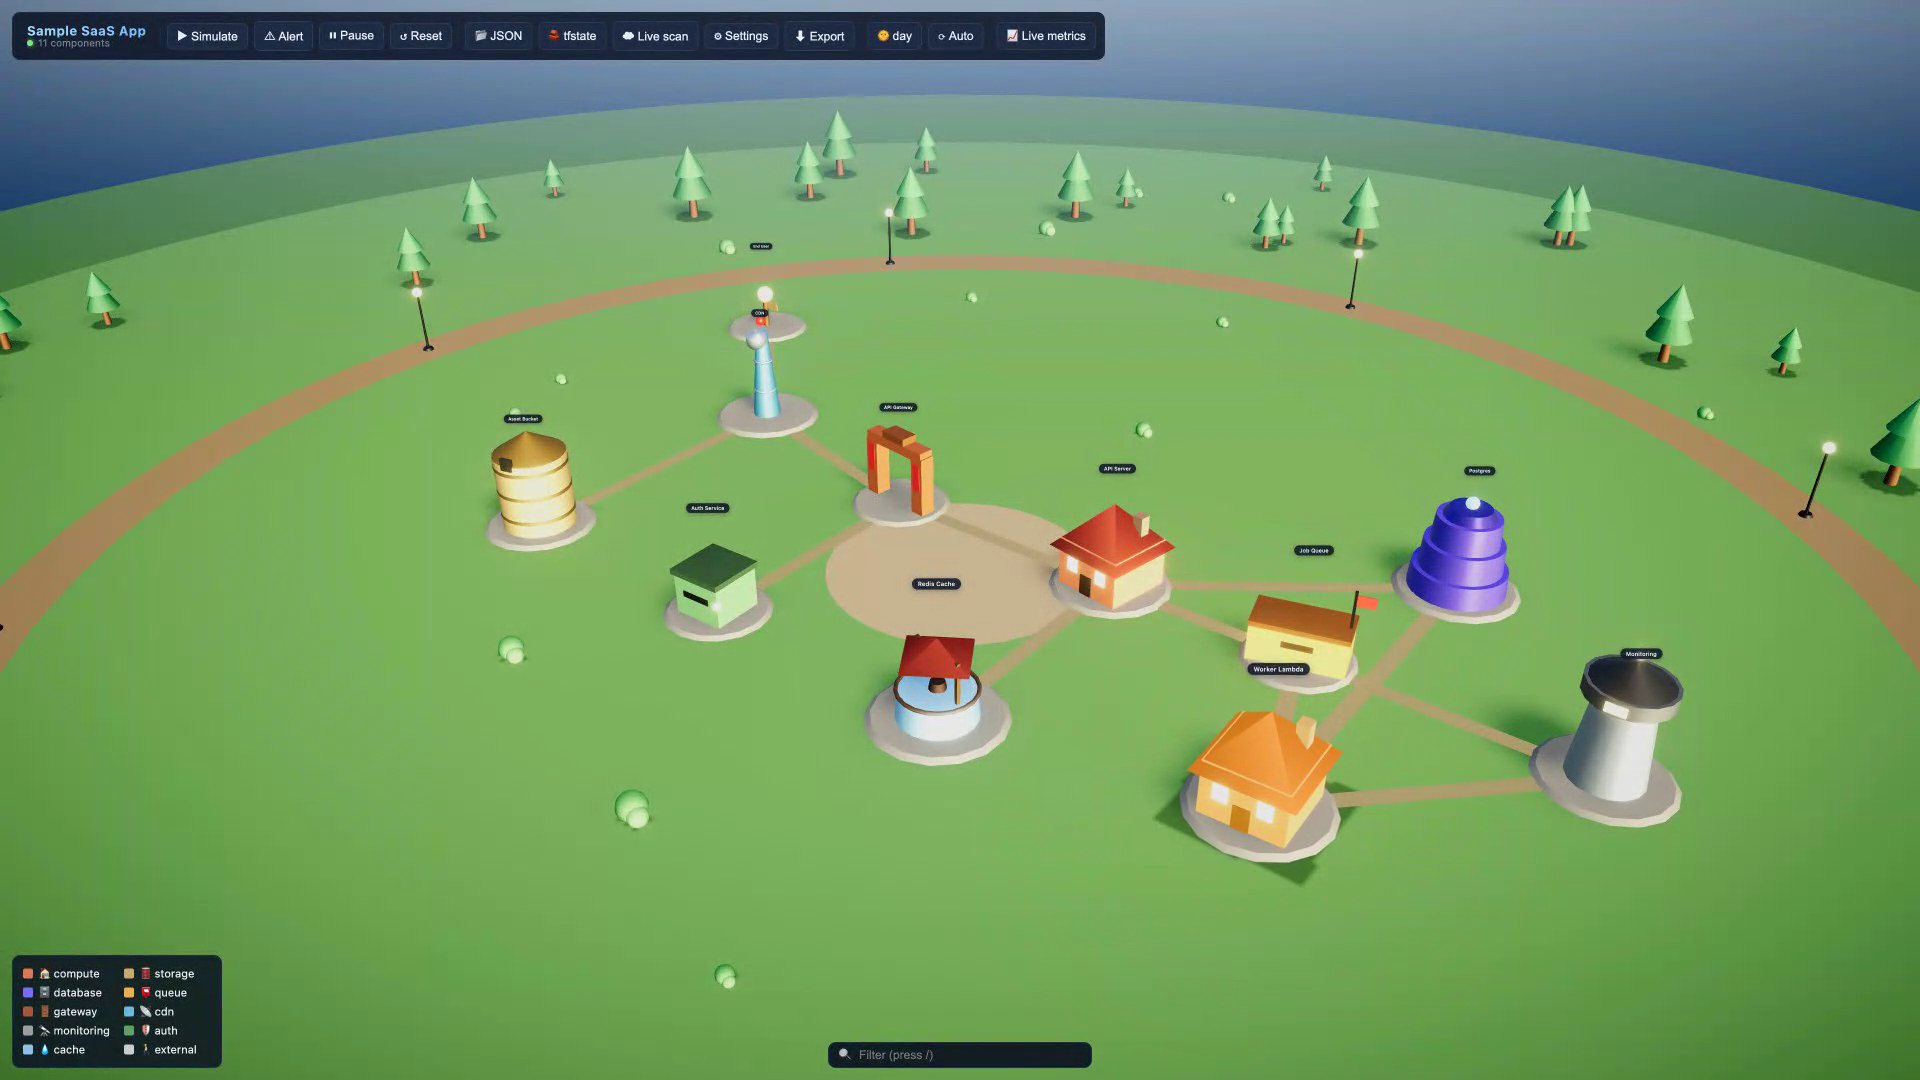
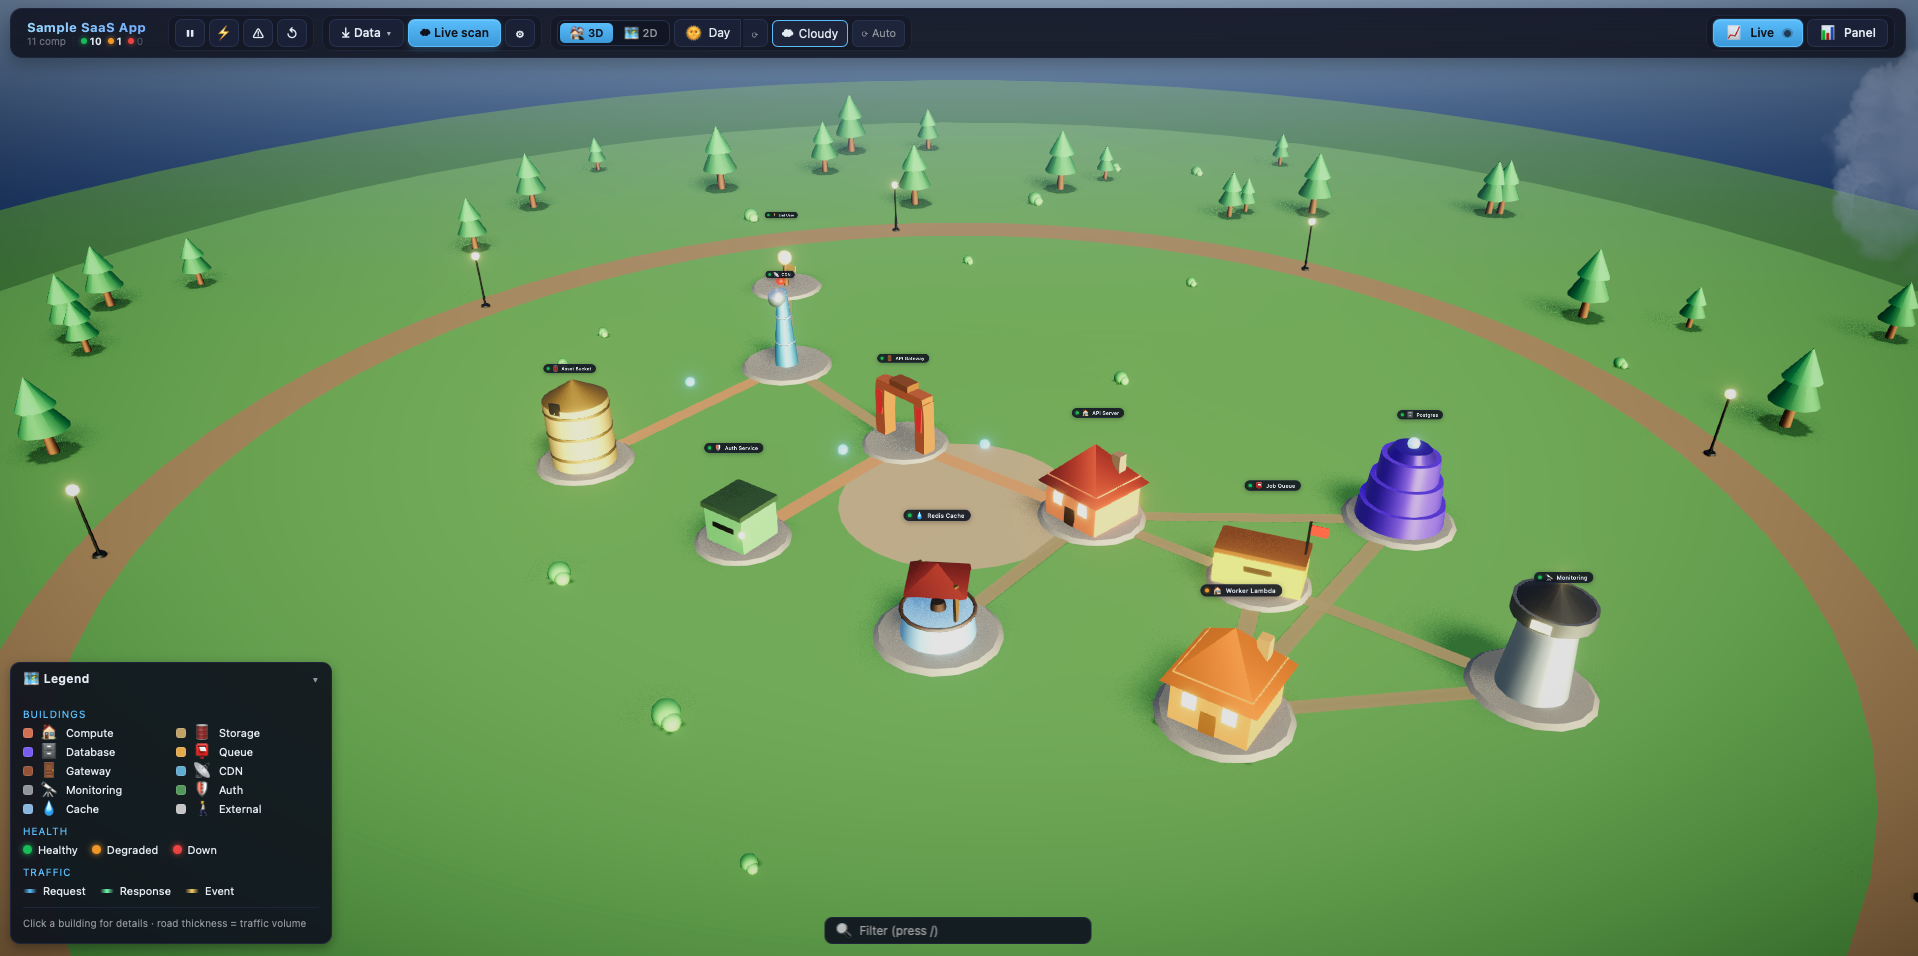
feat: add 2D view image and mobile layout image to README

diff --git a/README.md b/README.md
@@ -8,6 +8,8 @@
 
 ![Cloud Village intro](docs/cloud-village.png)
 
+![Cloud Village 2d](docs/cloud-village-2d.png)
+
 > 📽 [Full 1080p MP4](docs/cloud-village-intro.mp4) · [Static poster](docs/cloud-village.png)
 
 ---
